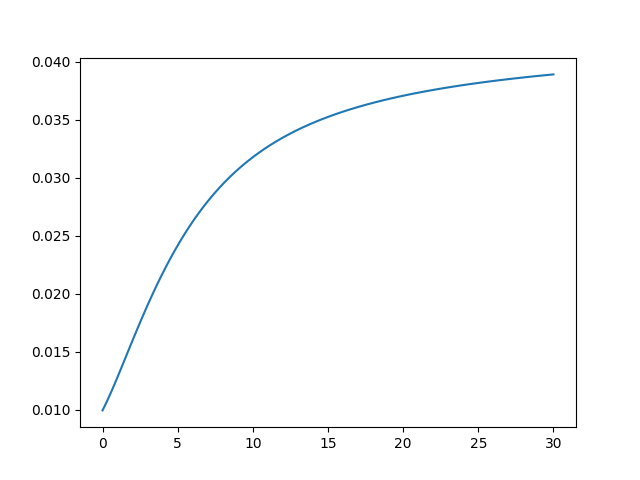
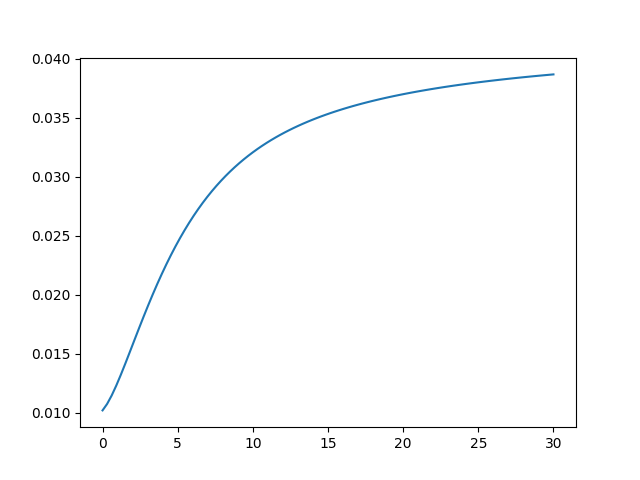
consistent calibration example on CLI (with initial tau set)

diff --git a/README.rst b/README.rst
@@ -96,31 +96,31 @@ In order to calibrate a curve to given data points on the command line, try
 
 .. code-block:: console
 
-        nelson_siegel_svensson calibrate -t '[0.0, 0.5, 1.0, 2.0, 3.0, 4.0, 5.0, 10.0, 15.0, 20.0, 25.0, 30.0]' -y '[0.01, 0.011, 0.013, 0.016, 0.019, 0.021, 0.026, 0.03, 0.035, 0.037, 0.038, 0.04]' --nelson-siegel
+        nelson_siegel_svensson calibrate -t '[0.0, 0.5, 1.0, 2.0, 3.0, 4.0, 5.0, 10.0, 15.0, 20.0, 25.0, 30.0]' -y '[0.01, 0.011, 0.013, 0.016, 0.019, 0.021, 0.026, 0.03, 0.035, 0.037, 0.038, 0.04]' --nelson-siegel --initial-tau1 1.0
 
 which gives
 
 .. code-block:: console
 
-        {"beta0": 0.04257148396759226, "beta1": -0.03264235709868573, "beta2": -0.022575588144507032, "tau": 2.0}
+        {"beta0": 0.042017393764903765, "beta1": -0.03182903146166806, "beta2": -0.026797320316066128, "tau": 1.717097232403383}
 
 This curve can then be evaluated on the command line using
 
 .. code-block:: console
 
-        nelson_siegel_svensson evaluate -c '{"beta0": 0.04257148396759226, "beta1": -0.03264235709868573, "beta2": -0.022575588144507032, "tau": 2.0}' -t '[0, 1, 2, 3]'
+        nelson_siegel_svensson evaluate -c '{"beta0": 0.042017393764903765, "beta1": -0.03182903146166806, "beta2": -0.026797320316066128, "tau": 1.717097232403383}' -t '[0, 1, 2, 3]'
 
 resulting in
 
 .. code-block:: console
 
-        [0.009929126868906527, 0.012811133364554837, 0.015972180313818436, 0.019010674380379816]
+        [0.010188362303235707, 0.012547870204470839, 0.01574855552855885, 0.01897955804146046]
 
 And finally, the curve can be plotted with
 
 .. code-block:: console
 
-        nelson_siegel_svensson plot -o cli_plot_example.png -c '{"beta0": 0.04257148396759226, "beta1": -0.03264235709868573, "beta2": -0.022575588144507032, "tau": 2.0}'
+        nelson_siegel_svensson plot -o cli_plot_example.png -c '{"beta0": 0.042017393764903765, "beta1": -0.03182903146166806, "beta2": -0.026797320316066128, "tau": 1.717097232403383}'
 
 .. image:: docs/_static/cli_plot_example.png
 
